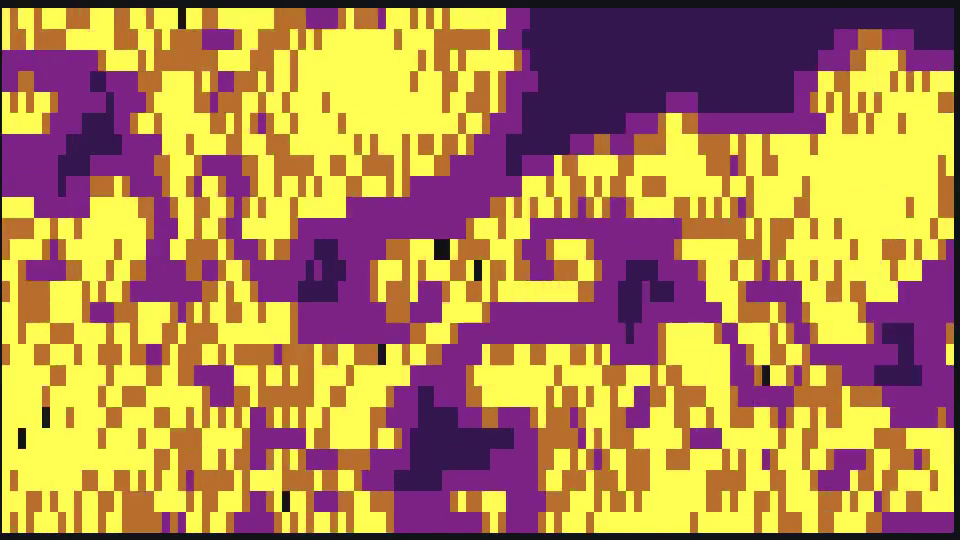
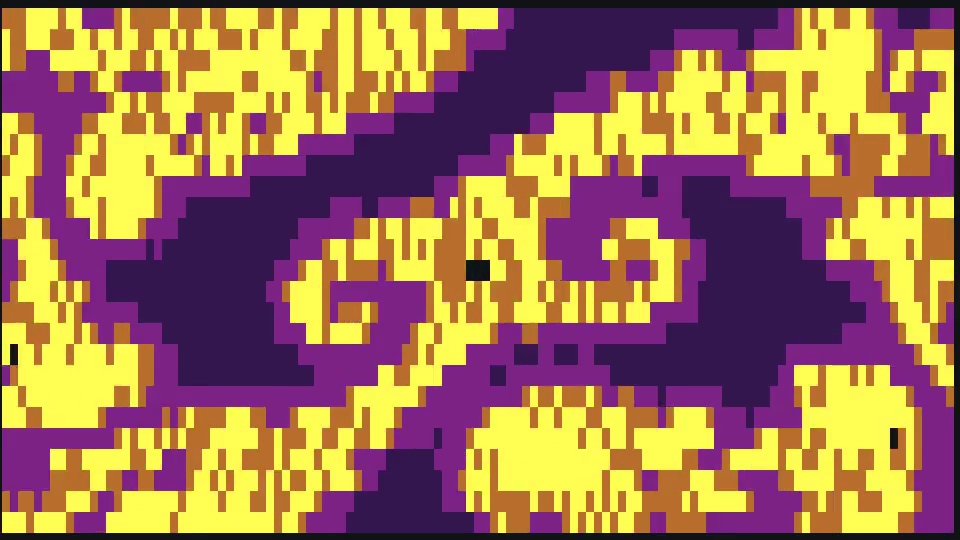
docs: add a GIF gallery for every animation
Record all twelve distinct styles through the pinned Kinestra recipe, verify CLI coverage, and export compact previews without capture shutdown frames. Include the pending Chladni cycle-boundary test and integrated-command documentation cleanup.

diff --git a/demo/record.rs b/demo/record.rs
@@ -1,7 +1,7 @@
 use kinestra::{Error, Recorder, Result, Size};
 use std::{
     env, fs,
-    path::PathBuf,
+    path::{Path, PathBuf},
     process::{Command, ExitCode},
     time::Duration,
 };
@@ -15,19 +15,45 @@ fn record(r: &mut Recorder) -> Result<()> {
         ));
     }
     let assets = root.join("assets");
+    let gallery = assets.join("animations");
     let mars = PathBuf::from(env::var_os("ANIMA_MARS").expect("Nix supplies ANIMA_MARS"));
     let anima = env::var_os("ANIMA_BIN").expect("Nix supplies ANIMA_BIN");
     let work = r.work().to_path_buf();
-    fs::create_dir_all(&assets)?;
-    fs::create_dir_all(demo.join(".work"))?;
-    r.display(Size::new(960, 540)?, None)?;
+    let recordings = demo.join(".work");
+    fs::create_dir_all(&gallery)?;
+    fs::create_dir_all(&recordings)?;
+    // Warm-up seconds: trail networks need longer to develop than the other styles.
     let styles = [
-        "primordial",
-        "mandelbrot",
-        "matrix",
-        "game_of_life_tumblers",
+        ("logo", 4),
+        ("asciiquarium", 4),
+        ("boids_predator", 4),
+        ("boids_schools", 4),
+        ("friends_and_enemies", 4),
+        ("primordial", 4),
+        ("physarum", 15),
+        ("chladni", 4),
+        ("mandelbrot", 4),
+        ("matrix", 4),
+        ("game_of_life_gliders", 4),
+        ("game_of_life_tumblers", 4),
     ];
-    for style in styles {
+    let help = r.output(Command::new(&anima).arg("--help"))?;
+    let listed = help
+        .lines()
+        .skip_while(|line| *line != "Styles:")
+        .skip(1)
+        .take_while(|line| !line.is_empty())
+        .map(str::trim)
+        .filter(|style| !["static", "boids", "random"].contains(style));
+    if !listed.eq(styles.iter().map(|(style, _)| *style)) {
+        return Err(Error::Invalid(
+            "update the gallery recipe and README to match packaged yzs styles".into(),
+        ));
+    }
+    r.display(Size::new(960, 540)?, None)?;
+    let mut total = 0;
+    for (style, warmup) in styles {
+        eprintln!("Recording {style}...");
         r.launch(
             "anima-demo",
             Command::new(mars.join("bin/mars"))
@@ -41,22 +67,35 @@ fn record(r: &mut Recorder) -> Result<()> {
                 .env_remove("YAZELIX_CURSOR_CONFIG")
                 .env_remove("MARS_PROFILE"),
         )?;
-        r.sleep(Duration::from_secs(4))?;
-        r.record(&work.join(format!("{style}.mp4")), |r| {
-            r.sleep(Duration::from_secs(2))
-        })?;
+        r.sleep(Duration::from_secs(warmup))?;
+        let recording = recordings.join(format!("{style}.mp4"));
+        // Leave capture headroom: the final grab can contain a partial shutdown frame.
+        r.record(&recording, |r| r.sleep(Duration::from_secs(3)))?;
+        r.stop_app()?;
+        let gif = gallery.join(format!("{style}.gif"));
+        export_gif(r, &recording, &gif, 2)?;
+        let bytes = fs::metadata(&gif)?.len();
+        eprintln!("{style}.gif: {bytes} bytes");
+        total += bytes;
     }
-    r.stop_app()?;
+    eprintln!("Gallery total: {total} bytes");
     let montage = demo.join(".work/anima.mp4");
     let mut command = Command::new("ffmpeg");
     command.args(["-hide_banner", "-loglevel", "error", "-nostdin"]);
-    for style in styles {
-        command.arg("-i").arg(work.join(format!("{style}.mp4")));
+    for style in [
+        "primordial",
+        "mandelbrot",
+        "matrix",
+        "game_of_life_tumblers",
+    ] {
+        command
+            .arg("-i")
+            .arg(recordings.join(format!("{style}.mp4")));
     }
     command.args(["-filter_complex", "[0:v]trim=duration=2,setpts=PTS-STARTPTS[a];[1:v]trim=duration=2,setpts=PTS-STARTPTS[b];[2:v]trim=duration=2,setpts=PTS-STARTPTS[c];[3:v]trim=duration=2,setpts=PTS-STARTPTS[d];[a][b][c][d]concat=n=4:v=1:a=0[v]",
         "-map", "[v]", "-an", "-c:v", "libx264", "-crf", "18", "-pix_fmt", "yuv420p", "-movflags", "+faststart", "-y"]).arg(&montage);
     r.exec(&mut command)?;
-    r.gif(&montage, &assets.join("anima.gif"), 640, 10)?;
+    export_gif(r, &montage, &assets.join("anima.gif"), 8)?;
     r.poster(
         &montage,
         Duration::from_millis(2500),
@@ -73,6 +112,20 @@ fn record(r: &mut Recorder) -> Result<()> {
                 "default=noprint_wrappers=1",
             ])
             .arg(assets.join("anima.gif")),
+    )
+}
+
+fn export_gif(r: &mut Recorder, input: &Path, output: &Path, seconds: u32) -> Result<()> {
+    // Keep terminal blocks readable without spending 256 colors on capture noise.
+    r.exec(
+        Command::new("ffmpeg")
+            .args(["-hide_banner", "-loglevel", "error", "-nostdin", "-abort_on", "empty_output"])
+            .arg("-i")
+            .arg(input)
+            .arg("-filter_complex")
+            .arg(format!("trim=duration={seconds},fps=10,scale=640:-1:flags=lanczos,split[a][b];[a]palettegen=max_colors=64[p];[b][p]paletteuse=dither=bayer"))
+            .args(["-loop", "0", "-y"])
+            .arg(output),
     )
 }
 

diff --git a/src/chladni.rs b/src/chladni.rs
@@ -148,20 +148,17 @@ mod tests {
         let mut animation = ChladniAnimation::new(context(48, 24));
         let initial = animation.render_frame();
         let mut previous_mean: Option<f64> = None;
-        for frame in 0..MODE_FRAMES * MODES.len() {
-            let colors: Vec<_> = animation
-                .pixels
-                .cells
-                .iter()
-                .flatten()
-                .copied()
-                .flatten()
-                .collect();
-            assert_eq!(colors.len(), 48 * 48);
-            assert!(colors.iter().filter(|color| color.red > 120).count() > colors.len() / 100);
-            assert!(colors.iter().filter(|color| color.red < 60).count() > colors.len() / 5);
-            let mean =
-                colors.iter().map(|color| color.red as f64).sum::<f64>() / colors.len() as f64;
+        // Include the wrap back to frame zero in the adjacent-frame brightness check.
+        for frame in 0..=MODE_FRAMES * MODES.len() {
+            if frame > 0 {
+                animation.advance_frame();
+            }
+            let colors = animation.pixels.cells.iter().flatten().flatten();
+            let pixel_count = colors.clone().count();
+            assert_eq!(pixel_count, 48 * 48);
+            assert!(colors.clone().filter(|color| color.red > 120).count() > pixel_count / 100);
+            assert!(colors.clone().filter(|color| color.red < 60).count() > pixel_count / 5);
+            let mean = colors.map(|color| color.red as f64).sum::<f64>() / pixel_count as f64;
             if let Some(previous) = previous_mean {
                 assert!(
                     (mean - previous).abs() < 5.0,
@@ -172,7 +169,6 @@ mod tests {
             if frame % MODE_FRAMES == MODE_FRAMES / 2 {
                 assert_ne!(initial, animation.render_frame());
             }
-            animation.advance_frame();
         }
         assert_eq!(animation.render_frame(), initial);
 

diff --git a/README.md b/README.md
@@ -5,6 +5,8 @@ capable terminal; no Yazelix installation is required.
 
 ![Primordial particles, a Mandelbrot dive, Matrix rain, and Game of Life tumblers in Anima](assets/anima.gif)
 
+[See every animation](#animation-gallery).
+
 The user-facing command is `yzs`
 
 ```bash
@@ -76,11 +78,11 @@ yzs game_of_life_tumblers --cell-style dotted
 yzs random --duration-seconds 3
 ```
 
-Yazelix users get the integrated screen surface through the main command:
+Nova users get the integrated animation surface through the main command:
 
 ```bash
-yzx screen
-yzx screen mandelbrot
+yzx anima
+yzx anima chladni
 ```
 
 ## Repository Usage
@@ -118,25 +120,9 @@ nix run .#yzs -- mandelbrot
 nix run .#yzs -- random --duration-seconds 3
 ```
 
-Supported styles:
-
-- `static`
-- `logo`
-- `asciiquarium`
-- `boids`
-- `boids_predator`
-- `boids_schools`
-- `friends_and_enemies`
-- `primordial`
-- `physarum`
-- `chladni`
-- `mandelbrot`
-- `matrix`
-- `game_of_life_gliders`
-- `game_of_life_tumblers`
-- `random`
-
-No style means `random`
+The [gallery](#animation-gallery) shows every distinct animation. `boids` is an
+alias of `boids_predator`. `static` shows a still welcome card; `random` chooses
+an animation. No style means `random`
 
 In native animations, `Left`/`h`/`p` selects the previous style and
 `Right`/`l`/`n` selects the next; any other key exits
@@ -151,7 +137,8 @@ networks. The animation uses truecolor half blocks, a 6,000-agent ceiling, and
 the shared duration, input, and resize handling. It adds no dependency. This is
 a visual approximation of Jones's model, without biological-fidelity claims
 
-In `chladni`, five standing-wave mode pairs blend through a 36-second loop.
+In `chladni`, five standing-wave mode pairs blend through a 900-frame loop
+(36 seconds of frame delays, plus rendering and terminal I/O time).
 Warm nodal lines separate blue and violet regions on an opaque background.
 The animation uses square half-block samples under the 2:1 terminal-cell
 convention, cached cosine terms, and a fixed palette of at most 64 colors.
@@ -167,6 +154,83 @@ any-key exit and optional duration contract used by its native styles without
 copying or linking the aquarium implementation. The packaged upstream revision
 exits cleanly when its terminal disappears, so closing the containing terminal
 cannot orphan it
+
+## Animation Gallery
+
+Each preview is a short looping excerpt, not a complete simulation cycle.
+Run the command above a GIF to watch that style in your terminal.
+
+### Logo
+
+`yzs logo`
+
+![Yazelix welcome card cycling through its title and colored text](assets/animations/logo.gif)
+
+### Aquarium
+
+`yzs asciiquarium`
+
+![ASCII fish swimming past seaweed and rising bubbles](assets/animations/asciiquarium.gif)
+
+### Boids: Predator
+
+`yzs boids_predator` (alias: `yzs boids`)
+
+![Colored flocks scattering around a pursuing predator](assets/animations/boids_predator.gif)
+
+### Boids: Schools
+
+`yzs boids_schools`
+
+![Schools of colored particles turning and swimming together](assets/animations/boids_schools.gif)
+
+### Friends and Enemies
+
+`yzs friends_and_enemies`
+
+![Dense colored particles chasing friends and avoiding enemies](assets/animations/friends_and_enemies.gif)
+
+### Primordial
+
+`yzs primordial`
+
+![Bright green particles moving across a dark field](assets/animations/primordial.gif)
+
+### Physarum
+
+`yzs physarum`
+
+![Glowing trails joining into a branching transport network](assets/animations/physarum.gif)
+
+### Chladni
+
+`yzs chladni`
+
+![Warm nodal lines shifting between blue and violet standing-wave patterns](assets/animations/chladni.gif)
+
+### Mandelbrot
+
+`yzs mandelbrot`
+
+![A colorful zoom into the branching edge of the Mandelbrot set](assets/animations/mandelbrot.gif)
+
+### Matrix
+
+`yzs matrix`
+
+![Green columns of glowing characters falling across the terminal](assets/animations/matrix.gif)
+
+### Game of Life: Gliders
+
+`yzs game_of_life_gliders`
+
+![Small colored gliders traveling diagonally across a dark field](assets/animations/game_of_life_gliders.gif)
+
+### Game of Life: Tumblers
+
+`yzs game_of_life_tumblers`
+
+![Rows of colored block patterns oscillating in Conway's Game of Life](assets/animations/game_of_life_tumblers.gif)
 
 ## Library Examples
 
@@ -204,14 +268,14 @@ The crate must not depend on:
 - Home Manager install state
 - Yazelix command palette or workspace orchestration
 
-Yazelix consumes this crate for integrated rendering. `yzx screen` is the integrated Yazelix command; `yzs` is the standalone command for terminal users who want only the screen animations
+Nova consumes this crate for integrated rendering. `yzx anima` is the integrated Nova command; `yzs` is the standalone command for terminal users who want only the screen animations
 
 ## Surfaces
 
 - Product/repository: `anima`
 - Command: `yzs`
 - Rust crate: `yazelix_screen`
-- Integrated Yazelix command: `yzx screen`
+- Integrated Nova command: `yzx anima`
 
 ## Release Policy
 
@@ -225,19 +289,30 @@ v0.1.0
 
 ## Verification
 
-The README montage is recorded from the local `yzs` package through
+The gallery and hero montage are recorded from the local `yzs` package through
 [Kinestra](https://github.com/Yazelix/kinestra) and a pinned Mars terminal:
 
 ```sh
 nix run .#record-demo
 ```
 
-Run this from the repository root on x86_64 Linux. Each animation warms up before
-a two-second excerpt is recorded; the eight-second GIF is 640 by 360 pixels at
-10 FPS. [The still preview](assets/anima-poster.png) is also available. The
-Rust recipe is `demo/record.rs`; appearance settings live in `demo/mars/`.
-Nix compiles the recipe against the pinned Kinestra library. The intermediate MP4 stays in
-ignored `demo/.work/`. Recording tools are development-only and do not belong to
+Run this from the repository root on x86_64 Linux. The recipe exports a
+two-second excerpt per style after a four-second warm-up (15 seconds for
+Physarum). Each `assets/animations/STYLE.gif` is 640 × 360 at 10 FPS with a
+64-color palette. Capture headroom keeps shutdown frames out of the excerpts.
+Live recordings vary between takes.
+The eight-second hero montage reuses two seconds each of Primordial, Mandelbrot,
+Matrix, and tumblers. [A still preview](assets/anima-poster.png) is also available.
+
+The Rust recipe is [demo/record.rs](demo/record.rs); appearance settings live in
+`demo/mars/`. It checks its inventory against packaged CLI help and prints each
+GIF's byte size and the gallery total. When adding an animation, update the
+recipe and gallery together, inspect the motion and framing, and review asset
+sizes before committing. `boids` shares the predator GIF; `static` and `random`
+do not need separate previews.
+
+Nix compiles the recipe against the pinned Kinestra library. Intermediate MP4s
+stay in ignored `demo/.work/`. Recording tools and gallery assets stay outside
 the installed `yzs` closure. Kinestra and Mars revisions are pinned in `flake.lock`.
 
 From this repository:

diff --git a/AGENTS.md b/AGENTS.md
@@ -10,7 +10,7 @@ Only Anima-specific guidance belongs here.
 ## Local Scope
 
 - This repo owns Anima's standalone `yzs` terminal animation engine and Rust crate.
-- Main Yazelix owns integrated welcome/session policy and the `yzx screen` command surface.
+- Nova owns integrated welcome/session policy and the `yzx anima` command surface.
 - Keep renderer behavior usable from a plain terminal without a Yazelix session.
 
 ## Local Commands
